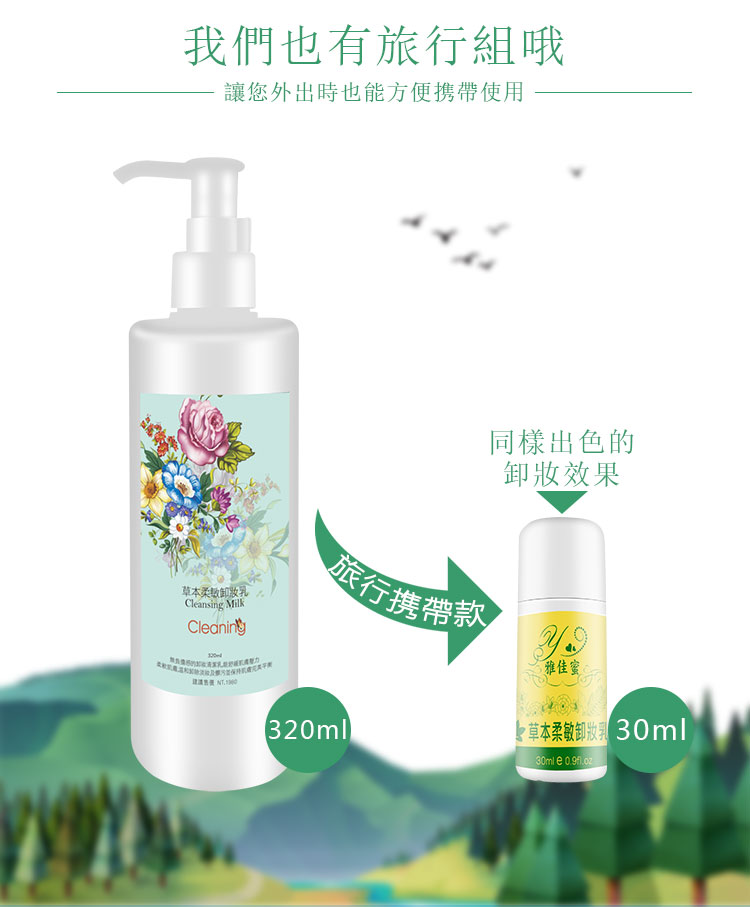
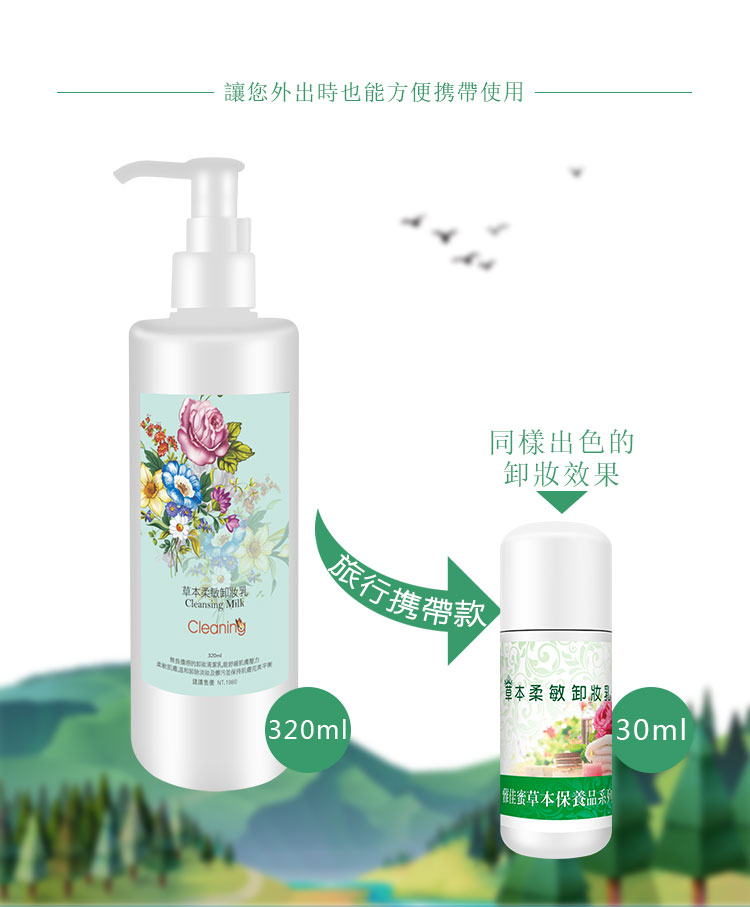
照片更換

Changed region(s): [[0.644, 0.5865, 0.828, 0.957], [0.2453, 0.0309, 0.7667, 0.0926], [0.7053, 0.5557, 0.7973, 0.5865]]

diff --git a/product-cleanser2.html b/product-cleanser2.html
@@ -122,7 +122,68 @@
  <button class="jq-submit" type="button" onclick="window.location.href='http://goods.ruten.com.tw/item/show?21815877984808';"><i class="icon-shopping-cart"></i>進入購物頁面</button>
      
     </div> 
-  </div><div class="clear"> </div>
+  </div>
+  <div class="clear"> </div>
+<div id="preview">
+      <div class="jqzoom" id="spec-n1" onClick="('#')"><IMG height="350"
+  src="images/1.雅佳蜜卸妆乳详情页繁中上架資料/主图繁中.jpg" jqimg="images/products/a-010.jpg" width="350"> </div>
+      
+    </div>
+    <div class="text">
+      <h1>草本柔敏卸妝乳(30mL)</h1>
+      <div class="clear"></div>
+      <ul>
+        <li>溫和去除臉部髒污及彩妝</li>
+        <li>清網不油膩</li>
+        <li>提升肌膚柔嫩度</li>
+      </ul>
+      </h2>
+    </div>
+    <div class="options">
+    <!-- <form action="#">
+      <div class="item">
+        <label>選擇容量</label>
+        <div class="select">
+          <select>
+            <option>100 ML</option>
+            <option>50 ML</option>
+            <option>30 ML</option>
+          </select>
+        </div>
+      </div>
+      <div class="item">
+        <label>選擇香味</label>
+        <div class="select">
+          <select>
+            <option>Blue with white stripes</option>
+            <option>Red with white stripes</option>
+            <option>White with black stripes</option>
+          </select>
+        </div>
+      </div>
+      <div class="item">
+        <label>選擇數量</label>
+        <div class="select quantity">
+          <select>
+            <option>2</option>
+            <option>3</option>
+            <option>4</option>
+          </select><div class="sell-out">補貨中</div>
+        </div>
+      </div>      
+    </form> -->
+    <div class="item-price">      
+      <div class="original"><div class="original-tag">建議售價</div> <!-- $22800 --></div>
+      <div class="sale">$220</div>
+    </div><div class="clear"> </div>
+     <div class="cart">
+ <button class="jq-submit" type="button" onclick="window.location.href='http://goods.ruten.com.tw/item/show?21815877984808';"><i class="icon-shopping-cart"></i>進入購物頁面</button>
+     
+    </div> 
+  </div>
+  
+  <div class="clear"> </div>
+
   <div class="detail-box">
     <img src="images/1.雅佳蜜卸妆乳详情页繁中上架資料/images/雅佳蜜卸妆乳详情页繁中_01.jpg" alt="" />
     <img src="images/1.雅佳蜜卸妆乳详情页繁中上架資料/images/雅佳蜜卸妆乳详情页繁中_02.jpg" alt="" />
